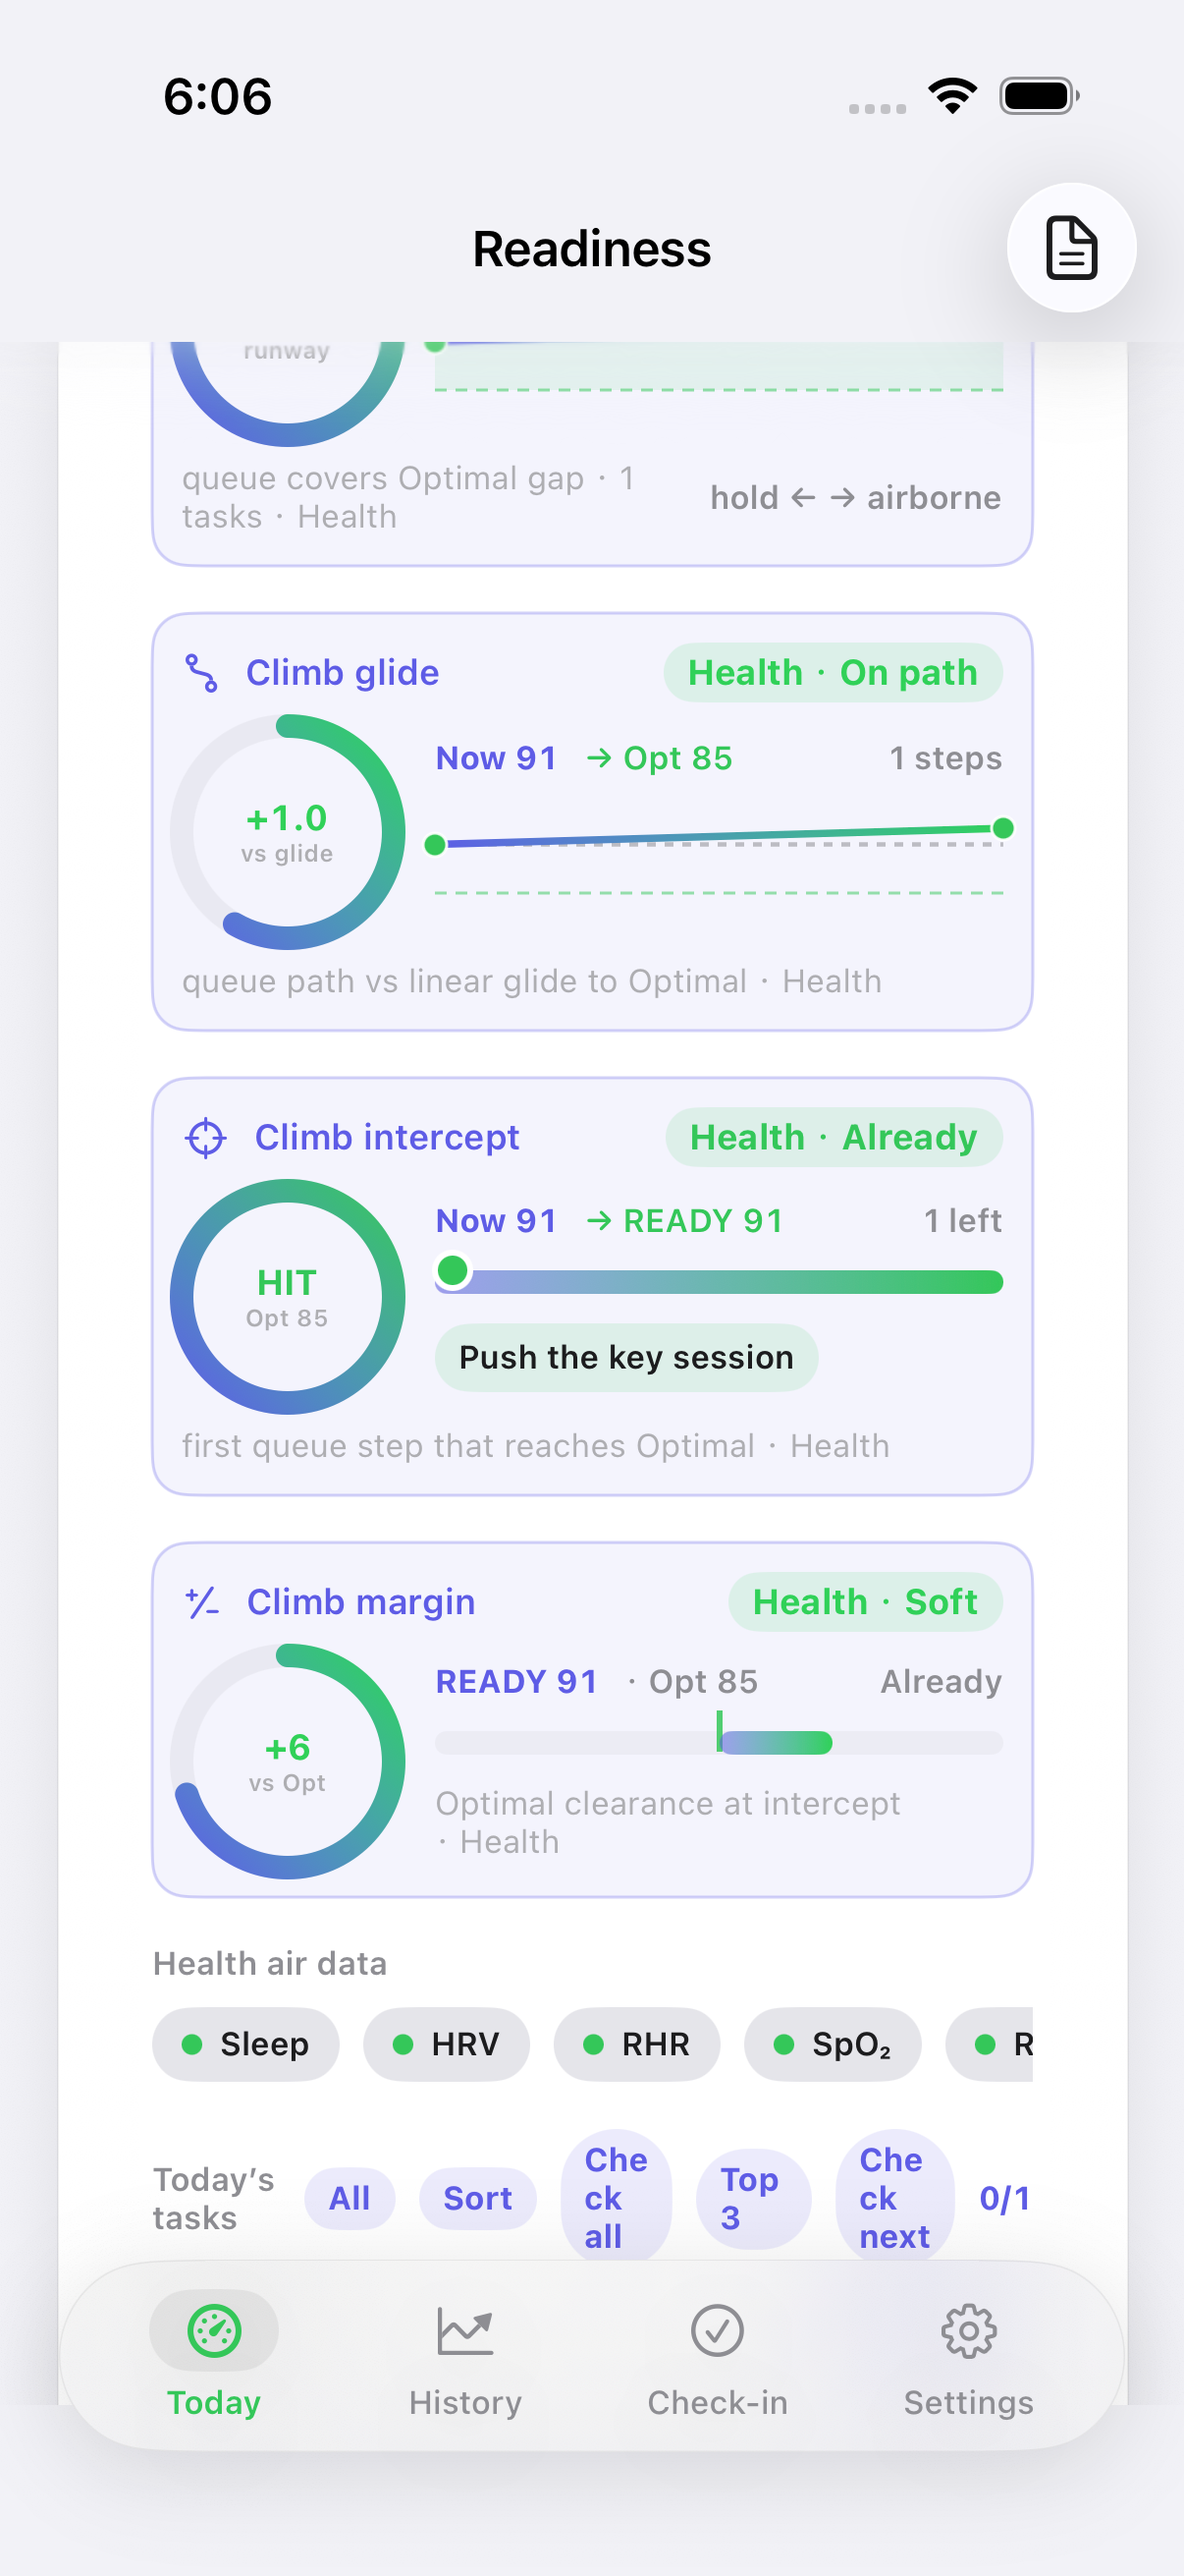
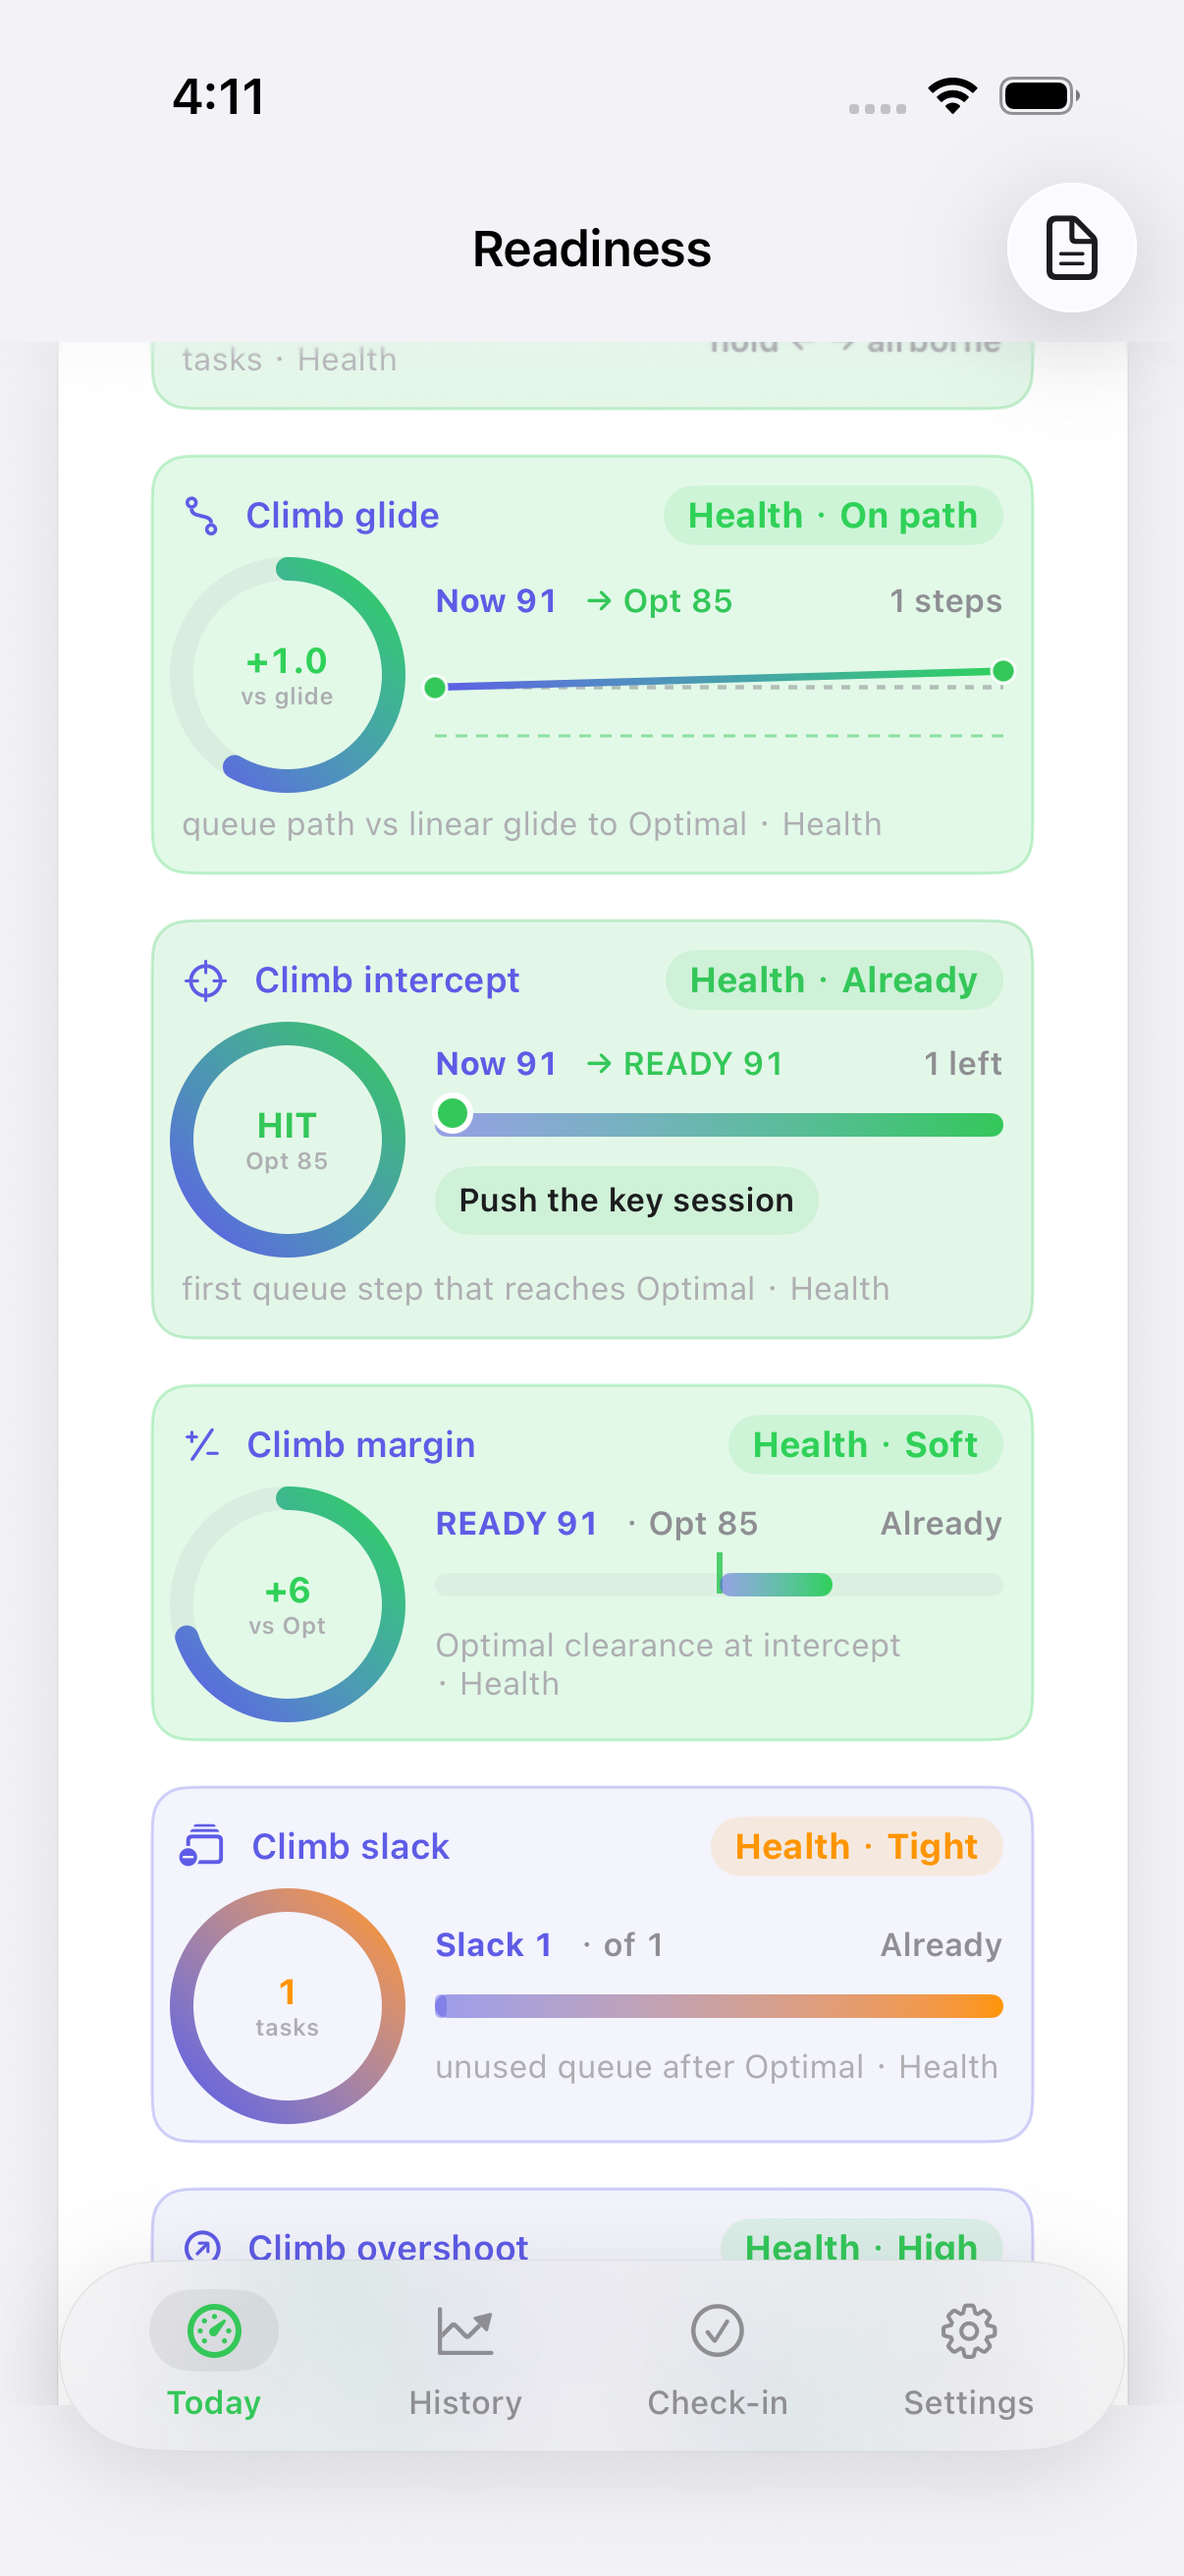
Honest #751: Simulator climb margin (WHOOP wells) (#781)
Why: keep Load Simulator climb visuals on WHOOP-well parity so the margin dial matches intercept/glide/runway/surplus siblings instead of older flat accent chrome.

Restyle the existing Simulator climb margin dial (`sim.load.ready.climb.margin`, Honest #712) with WHOOP wells.

- Idle Short (margin < 0, queue never reaches Optimal): ghost/hairline 8%/28% using secondaryText
- Active Exact (margin == 0): 14% fill + 28% hairline (caution)
- Active Soft (margin >= 1): 14% fill + 28% hairline (good)
- Active Clear (margin >= 8): 14% fill + 28% hairline (optimal)
- No new SurfaceID; no formula / verb / threshold / metric change

Proof: `testReadinessLoadSimulatorSurface` 765.401s, 0 failures (observer 779.442s); `.audit/verify-simulator-climb-margin.png`
model=deepseek-flash (mechanical pattern-copy of #750 wells applied locally)

diff --git a/ReadinessTracker/Views/WhoopFeatures/ReadinessLoadSimulatorCard.swift b/ReadinessTracker/Views/WhoopFeatures/ReadinessLoadSimulatorCard.swift
@@ -4742,7 +4742,7 @@ struct ReadinessLoadSimulatorCard: View {
         .animation(.easeInOut(duration: 0.25), value: projectedCoupled)
     }
 
-    /// Honest #712: READY climb margin — Optimal clearance at intercept (or queue end if short).
+    /// Honest #712 / #751: READY climb margin — Optimal clearance at intercept (or queue end if short; WHOOP wells).
     @ViewBuilder
     private var readyClimbMarginDial: some View {
         let pending = tasks.filter { !completedTaskIDs.contains($0.id) }.sorted { $0.readyDelta > $1.readyDelta }
@@ -4788,6 +4788,8 @@ struct ReadinessLoadSimulatorCard: View {
         let disp = margin >= 0 ? "+\(margin)" : "\(margin)"
         // dial fill: map margin −15…+15 → 0…1
         let progress = min(1.0, max(0.0, Double(margin + 15) / 30.0))
+        let climbMarginIsActive = margin >= 0
+        let wellTone: Color = climbMarginIsActive ? tone : RTColor.secondaryText
         return VStack(alignment: .leading, spacing: 8) {
             HStack(spacing: 8) {
                 Image(systemName: "plus.forwardslash.minus")
@@ -4878,10 +4880,10 @@ struct ReadinessLoadSimulatorCard: View {
             }
         }
         .padding(10)
-        .background(accent.opacity(0.07), in: RoundedRectangle(cornerRadius: 12, style: .continuous))
+        .background(wellTone.opacity(climbMarginIsActive ? 0.14 : 0.08), in: RoundedRectangle(cornerRadius: 12, style: .continuous))
         .overlay(
             RoundedRectangle(cornerRadius: 12, style: .continuous)
-                .stroke(accent.opacity(0.28), lineWidth: 1)
+                .stroke(wellTone.opacity(0.28), lineWidth: 1)
         )
         .accessibilityIdentifier(SurfaceID.readinessSimulatorClimbMargin)
         .accessibilityLabel("Climb margin \(verb) \(disp)")

diff --git a/ReadinessTracker/Design/Theme.swift b/ReadinessTracker/Design/Theme.swift
@@ -415,7 +415,7 @@ enum SurfaceID {
     static let readinessSimulatorClimbRunway = "sim.load.ready.climb.runway"  // Honest #623 / #748
     static let readinessSimulatorClimbGlide = "sim.load.ready.climb.glide"  // Honest #626 / #749
     static let readinessSimulatorClimbIntercept = "sim.load.ready.climb.intercept"  // Honest #639 / #750
-    static let readinessSimulatorClimbMargin = "sim.load.ready.climb.margin"  // Honest #712
+    static let readinessSimulatorClimbMargin = "sim.load.ready.climb.margin"  // Honest #712 / #751
     static let readinessSimulatorClimbSlack = "sim.load.ready.climb.slack"  // Honest #713
     static let readinessSimulatorClimbOvershoot = "sim.load.ready.climb.overshoot"  // Honest #714
     static let readinessSimulatorClimbHold = "sim.load.ready.climb.hold"  // Honest #715

diff --git a/ReadinessTrackerUITests/SurfacesUITests.swift b/ReadinessTrackerUITests/SurfacesUITests.swift
@@ -10963,7 +10963,7 @@ final class SurfacesUITests: XCTestCase {
         }
         saveShot("verify-simulator-climb-intercept.png")
 
-        // Honest #712: READY climb margin
+        // Honest #712 / #751: READY climb margin (WHOOP wells)
         let climbMargin = app.descendants(matching: .any)["sim.load.ready.climb.margin"].firstMatch
         XCTAssertTrue(climbMargin.waitForExistence(timeout: 5)
                       || app.descendants(matching: .any)["sim.load.ready.climb.intercept"].firstMatch.exists

diff --git a/.audit/decision-log-2026-11-04.md b/.audit/decision-log-2026-11-04.md
@@ -342,3 +342,9 @@
 
 | 03:47 HKT | #750 Simulator climb intercept | prove | UITest suite green /tmp/RT-DD750 (770.158s, 0 failures; observer 784.728s); model=deepseek-flash |
 | 03:48 HKT | #750 Simulator climb intercept | land | proof PNG + receipt; SID sim.load.ready.climb.intercept; PR squash next; model=deepseek-flash |
+
+| 03:59 HKT | Honest #751 Simulator climb margin | model=deepseek-flash | restyle existing sim.load.ready.climb.margin after climb intercept #750; WHOOP ghost/active wells; mechanical pattern-copy of #750 wells applied locally (no separate model iterate needed) | mid-ship |
+| 03:59 HKT | Honest #751 Simulator climb margin | prove | started UITest /tmp/RT-DD751; model=deepseek-flash | mid-ship |
+
+| 04:17 HKT | #751 Simulator climb margin | prove | UITest suite green /tmp/RT-DD751 (765.401s, 0 failures; observer 779.442s); model=deepseek-flash |
+| 04:18 HKT | #751 Simulator climb margin | land | proof PNG + receipt; SID sim.load.ready.climb.margin; PR squash next; model=deepseek-flash |

diff --git a/.audit/simulator-climb-margin.md b/.audit/simulator-climb-margin.md
@@ -1,5 +1,6 @@
-# Honest #712: Simulator climb margin
+# Honest #712 / #751: Simulator climb margin (WHOOP wells)
 
 Optimal clearance at intercept (or queue end if short). Clear/Soft/Exact/Short dial + signed pts bar.
+Idle Short (margin < 0, queue never reaches Optimal) = ghost/hairline 8/28; active Exact (margin == 0) = 14 fill + 28 hairline (caution); active Soft (margin >= 1) = 14 fill + 28 hairline (good); active Clear (margin >= 8) = 14 fill + 28 hairline (optimal).
 SurfaceID: `sim.load.ready.climb.margin`
 Proof: `.audit/verify-simulator-climb-margin.png`

diff --git a/.audit/features/simulator-climb-margin.md b/.audit/features/simulator-climb-margin.md
@@ -1,4 +1,6 @@
-# Honest #712: Simulator climb margin
+# Honest #712 / #751: Simulator climb margin (WHOOP wells)
 
 SurfaceID: `sim.load.ready.climb.margin`
+Idle Short (margin < 0, queue never reaches Optimal) = ghost/hairline 8/28; active Exact (margin == 0) = 14 fill + 28 hairline (caution); active Soft (margin >= 1) = 14 fill + 28 hairline (good); active Clear (margin >= 8) = 14 fill + 28 hairline (optimal).
 Proof: `.audit/verify-simulator-climb-margin.png`
+UITest: `testReadinessLoadSimulatorSurface`
